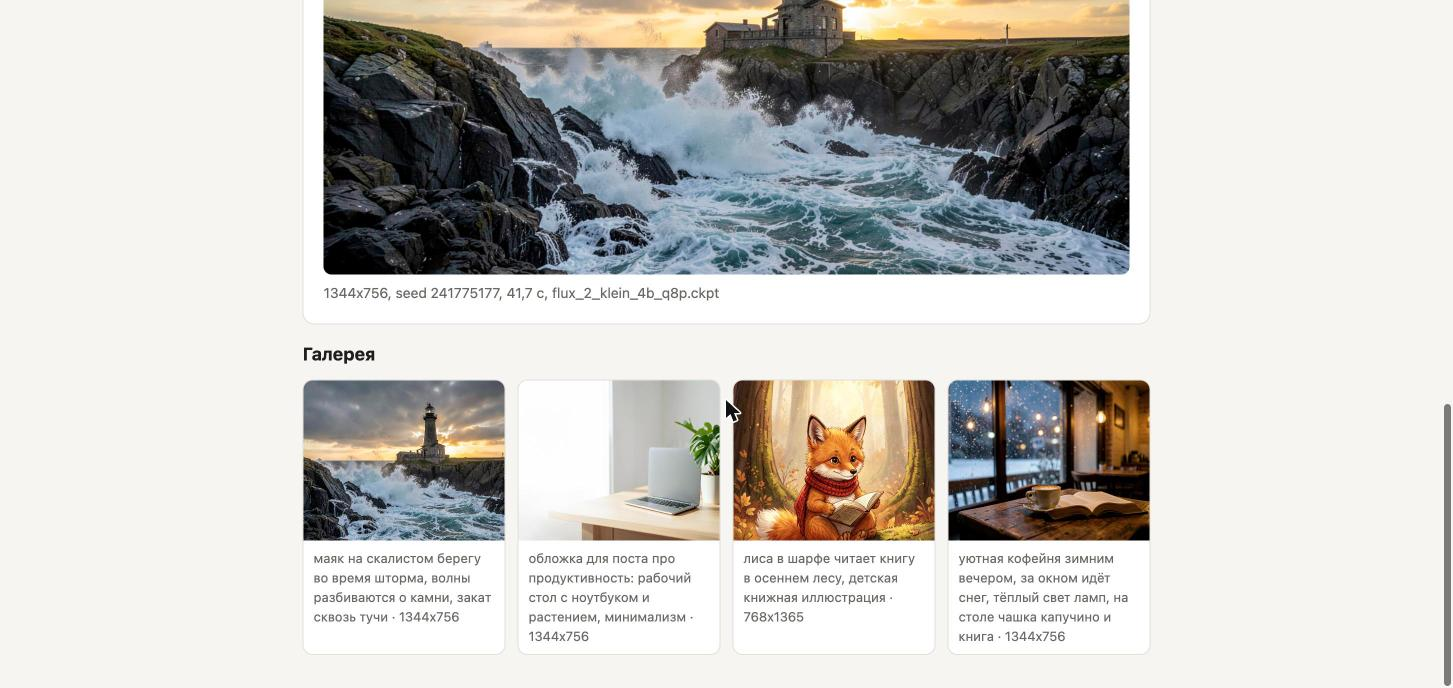
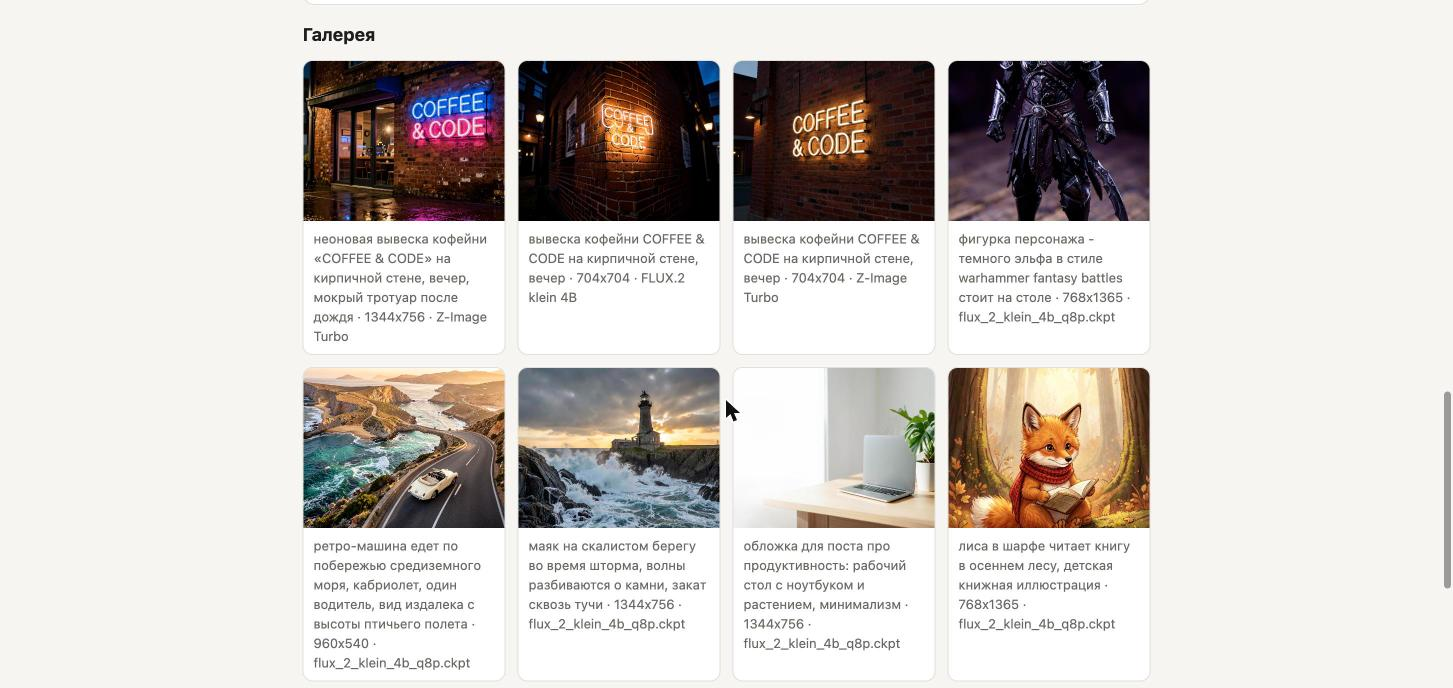
Выбор модели генерации: Z-Image Turbo и FLUX.2 klein 4B

diff --git a/static/app.js b/static/app.js
@@ -54,7 +54,8 @@ async function generate() {
   const stop = startTimer("Draw Things рисует");
   try {
     const entry = await post("/api/generate", {
-      prompt, idea: $("idea").value.trim(), aspect: $("aspect").value, quality: $("quality").value,
+      prompt, idea: $("idea").value.trim(), model: $("model").value,
+      aspect: $("aspect").value, quality: $("quality").value,
     });
     $("result-image").src = `/outputs/${encodeURIComponent(entry.file)}`;
     $("result-image").alt = entry.idea || entry.prompt;
@@ -83,9 +84,20 @@ async function loadGallery() {
     img.alt = entry.idea || entry.prompt;
     img.loading = "lazy";
     const caption = document.createElement("span");
-    caption.textContent = `${entry.idea || "без идеи"} · ${entry.size}`;
+    caption.textContent = `${entry.idea || "без идеи"} · ${entry.size} · ${entry.model}`;
     link.append(img, caption);
     return link;
+  }));
+}
+
+// Fills the model select from the server so the list lives in one place, drawthings.MODELS.
+async function loadModels() {
+  const data = await (await fetch("/api/models")).json();
+  $("model").replaceChildren(...data.models.map((model) => {
+    const steps = `${model.steps} ${model.steps < 5 ? "шага" : "шагов"}`;
+    const option = new Option(`${model.title}, ${steps}`, model.id);
+    option.selected = model.id === data.default;
+    return option;
   }));
 }
 
@@ -116,7 +128,7 @@ async function checkServices() {
     hints.push("Запустите приложение Ollama.");
   }
   if (status.drawthings_model) {
-    showService("drawthings-status", true, `Draw Things: ${status.drawthings_model}`);
+    showService("drawthings-status", true, "Draw Things: API включён");
   } else {
     showService("drawthings-status", false, "Draw Things: API выключен");
     hints.push("Откройте Draw Things и включите API-сервер: настройки → API Server, HTTP, порт 7860.");
@@ -127,6 +139,7 @@ async function checkServices() {
 
 $("write-prompt").addEventListener("click", writePrompt);
 $("generate").addEventListener("click", generate);
+loadModels();
 loadGallery();
 checkServices();
 setInterval(checkServices, 10000);

diff --git a/static/index.html b/static/index.html
@@ -37,6 +37,9 @@
       <h2><span class="step">2</span> Промпт и картинка</h2>
       <textarea id="prompt" rows="6" placeholder="Здесь появится промпт на английском. Его можно поправить перед генерацией."></textarea>
       <div class="row">
+        <label>Модель
+          <select id="model"></select>
+        </label>
         <label>Формат
           <select id="aspect">
             <option value="1:1">Квадрат 1:1</option>

diff --git a/drawthings.py b/drawthings.py
@@ -15,6 +15,13 @@ ASPECTS = {"1:1": (1, 1), "16:9": (16, 9), "9:16": (9, 16), "4:3": (4, 3), "3:4"
 # Megapixels for each quality level; "fullhd" is set by the short side instead.
 QUALITY_MEGAPIXELS = {"draft": 0.5, "standard": 1.0}
 
+# Models the studio offers. Both are distilled: few steps and CFG 1; other settings would spoil the image.
+MODELS = {
+    "z-image": {"title": "Z-Image Turbo", "file": "z_image_turbo_1.0_i8x.ckpt", "steps": 8, "guidance": 1.0},
+    "klein": {"title": "FLUX.2 klein 4B", "file": "flux_2_klein_4b_q8p.ckpt", "steps": 4, "guidance": 1.0},
+}
+DEFAULT_MODEL = "z-image"
+
 
 class DrawThingsError(Exception):
     pass
@@ -52,10 +59,6 @@ def _request(path, body=None, timeout=900):
         ) from error
 
 
-def current_model():
-    return _request("/", timeout=5).get("model")
-
-
 def status():
     """Selected model name, or None when Draw Things or its API server is off."""
     try:
@@ -64,18 +67,22 @@ def status():
         return None
 
 
-def generate(prompt, aspect, quality, out_path, seed=None):
+def generate(prompt, aspect, quality, out_path, model=DEFAULT_MODEL, seed=None):
     """Generates an image into out_path (PNG). Returns the settings actually used."""
     width, height = target_size(aspect, quality)
-    body = {"prompt": prompt, "negative_prompt": "", "width": _round_up(width), "height": _round_up(height)}
+    settings = MODELS[model]
+    body = {
+        "prompt": prompt, "negative_prompt": "", "width": _round_up(width), "height": _round_up(height),
+        "model": settings["file"], "steps": settings["steps"], "guidance_scale": settings["guidance"],
+    }
     if seed is not None:
         body["seed"] = seed
     result = _request("/sdapi/v1/txt2img", body)
     images = result.get("images") or []
     if not images:
-        raise DrawThingsError("Draw Things не вернул картинку. Проверьте, что в приложении выбрана модель.")
+        raise DrawThingsError(f"Draw Things не вернул картинку. Проверьте, что в приложении скачана модель {settings['title']}.")
     out_path.write_bytes(base64.b64decode(images[0]))
     if (body["width"], body["height"]) != (width, height):
         # sips ships with macOS (Draw Things is macOS-only anyway): crop to the exact size around the centre.
         subprocess.run(["sips", "-c", str(height), str(width), str(out_path)], check=True, capture_output=True)
-    return {"width": width, "height": height, "seed": seed}
+    return {"width": width, "height": height, "seed": seed, "model": settings["title"], "steps": settings["steps"]}

diff --git a/app.py b/app.py
@@ -58,6 +58,11 @@ class StudioHandler(SimpleHTTPRequestHandler):
                 "ollama": prompt_writer.status(), "ollama_model": prompt_writer.OLLAMA_MODEL,
                 "drawthings_model": drawthings.status(),
             })
+        if self.path == "/api/models":
+            return self.send_json(200, {
+                "default": drawthings.DEFAULT_MODEL,
+                "models": [{"id": key, "title": m["title"], "steps": m["steps"]} for key, m in drawthings.MODELS.items()],
+            })
         if self.path.startswith("/outputs/"):
             path = OUTPUT_DIR / Path(unquote(self.path[len("/outputs/"):])).name
             if path.suffix == ".png" and path.exists():
@@ -90,8 +95,11 @@ class StudioHandler(SimpleHTTPRequestHandler):
     def handle_generate(self, body):
         prompt, idea = (body.get("prompt") or "").strip(), (body.get("idea") or "").strip()
         aspect, quality = body.get("aspect", "1:1"), body.get("quality", "standard")
+        model = body.get("model", drawthings.DEFAULT_MODEL)
         if not prompt or aspect not in drawthings.ASPECTS or quality not in ("draft", "standard", "fullhd"):
             return self.send_json(400, {"error": "Нужны промпт, формат и качество"})
+        if model not in drawthings.MODELS:
+            return self.send_json(400, {"error": "Неизвестная модель"})
         if not generation_lock.acquire(blocking=False):
             return self.send_json(409, {"error": "Уже рисуется другая картинка, дождитесь её"})
         try:
@@ -99,10 +107,10 @@ class StudioHandler(SimpleHTTPRequestHandler):
             name = file_name(prompt)
             seed = body.get("seed") or random.randint(1, 2**31 - 1)
             started = time.time()
-            used = drawthings.generate(prompt, aspect, quality, OUTPUT_DIR / name, seed=seed)
+            used = drawthings.generate(prompt, aspect, quality, OUTPUT_DIR / name, model=model, seed=seed)
             entry = {
                 "file": name, "idea": idea, "prompt": prompt, "aspect": aspect, "quality": quality,
-                "size": f"{used['width']}x{used['height']}", "seed": seed, "model": drawthings.current_model(),
+                "size": f"{used['width']}x{used['height']}", "seed": seed, "model": used["model"], "steps": used["steps"],
                 "seconds": round(time.time() - started, 1), "created": datetime.now().isoformat(timespec="seconds"),
             }
             save_to_gallery(entry)

diff --git a/README.md b/README.md
@@ -1,6 +1,6 @@
 # Local Image Studio
 
-Локальная студия картинок: пишете идею по-русски, локальная модель Gemma превращает её в подробный английский промпт, Draw Things рисует картинку нужного формата. Всё работает на вашем Mac — без подписок, облачных сервисов и знания промпт-инжиниринга.
+Локальная студия картинок: пишете идею по-русски, локальная модель Gemma превращает её в подробный английский промпт, Draw Things рисует картинку нужного формата одной из двух моделей на выбор. Всё работает на вашем Mac — без подписок, облачных сервисов и знания промпт-инжиниринга.
 
 ![Идея и промпт](images/01-idea-and-prompt.jpg)
 
@@ -19,7 +19,7 @@
 
 1. **Вход:** идея на русском языке и стиль — фото, иллюстрация или обложка для поста.
 2. **Промпт:** Gemma 4 12B в Ollama пишет английский промпт на 50–90 слов и сохраняет все детали идеи. Промпт можно поправить вручную.
-3. **Генерация:** выбираете формат (1:1, 16:9, 9:16, 4:3, 3:4) и качество (черновик 0,5 Мп, обычное 1 Мп, Full HD). Студия сама подбирает размер, допустимый для модели, отправляет запрос в Draw Things и обрезает результат до точного размера.
+3. **Генерация:** выбираете модель — Z-Image Turbo (по умолчанию, чисто пишет текст и лучше даёт фотографии) или FLUX.2 klein 4B (быстрее, для черновиков), — формат (1:1, 16:9, 9:16, 4:3, 3:4) и качество (черновик 0,5 Мп, обычное 1 Мп, Full HD). Студия сама подбирает размер, допустимый для модели, отправляет запрос в Draw Things и обрезает результат до точного размера.
 4. **Выход:** PNG-файл в папке `outputs/` и запись в галерее: промпт, Seed, модель, размер, время генерации.
 
 ## Формат результата
@@ -40,6 +40,7 @@
 
 - веб-интерфейс на `localhost` в два шага: идея → промпт → картинка;
 - три стиля промпта: фото, иллюстрация, обложка для поста;
+- две модели генерации на выбор, у каждой свои шаги и CFG — переключать модель в Draw Things не нужно;
 - пять форматов и три уровня качества, точный размер на выходе;
 - галерея с параметрами каждой генерации;
 - строка состояния: при открытии страницы и каждые 10 секунд студия проверяет, отвечают ли Ollama и Draw Things, и подсказывает, что включить;
@@ -48,7 +49,8 @@
 Дальше в планах:
 
 - пакетная генерация по списку тем из контент-плана;
-- выбор модели Draw Things из интерфейса и сравнение моделей на одном Seed;
+- сравнение моделей на одном Seed прямо в интерфейсе;
+- короткие видео (Draw Things умеет Wan 2.2 и LTX-2);
 - апскейлер для 4K;
 - фирменные стили с сохранёнными настройками.
 
@@ -56,11 +58,11 @@
 
 - **Python 3.9+**, только стандартная библиотека: `http.server`, `urllib`, `json` — ничего не нужно устанавливать через pip.
 - **Ollama** с моделью `gemma-4-12b-it` (GGUF Q4_K_M) — пишет промпты, API `POST /api/generate`.
-- **Draw Things** с моделью FLUX.2 klein 4B — генерирует картинки, HTTP API в формате Automatic1111 (`POST /sdapi/v1/txt2img`).
+- **Draw Things** с моделями Z-Image Turbo (8 шагов) и FLUX.2 klein 4B (4 шага) — генерирует картинки, HTTP API в формате Automatic1111 (`POST /sdapi/v1/txt2img`); модель, шаги и CFG студия передаёт в каждом запросе.
 - **sips** из macOS — обрезка до точного размера.
 - **HTML, CSS и JavaScript** без фреймворков — интерфейс со светлой и тёмной темой.
 
-Время на MacBook M3 Pro (36 ГБ): промпт — 6–11 с, картинка 1 Мп — около 40 с, Full HD — около 90 с.
+Время на MacBook M3 Pro (36 ГБ): промпт — 6–11 с; картинка 1 Мп — около 60 с в Z-Image Turbo и около 40 с в FLUX.2 klein 4B; Full HD в klein — около 90 с.
 
 ## Установка и запуск
 
@@ -70,32 +72,32 @@
    ```bash
    ollama pull hf.co/unsloth/gemma-4-12b-it-GGUF:Q4_K_M
    ```
-2. Установите [Draw Things](https://drawthings.ai), скачайте в нём модель (например, FLUX.2 klein 4B) и включите API-сервер: настройки → API Server → HTTP, порт 7860.
+2. Установите [Draw Things](https://drawthings.ai), скачайте в нём модели Z-Image Turbo и FLUX.2 klein 4B и включите API-сервер: настройки → API Server → HTTP, порт 7860. Хватит и одной модели — тогда выбирайте в студии только её.
 3. Склонируйте репозиторий и запустите студию:
    ```bash
    git clone https://github.com/alexandrsaturn-eng/local-image-studio.git
    cd local-image-studio
    python3 app.py
    ```
-4. Откройте http://127.0.0.1:8000. Под заголовком обе метки должны быть зелёными: «Ollama: Gemma готова» и «Draw Things: имя модели». Если метка красная, рядом будет подсказка, что включить.
+4. Откройте http://127.0.0.1:8000. Под заголовком обе метки должны быть зелёными: «Ollama: Gemma готова» и «Draw Things: API включён». Если метка красная, рядом будет подсказка, что включить.
 
 Draw Things не всегда сам включает API-сервер после перезапуска. Если метка Draw Things красная, проверьте настройку API Server в приложении.
 
-Другую модель Ollama или другие адреса можно указать в начале файлов `prompt_writer.py` и `drawthings.py`.
+Другую модель Ollama или другие адреса можно указать в начале файлов `prompt_writer.py` и `drawthings.py`. Модели генерации перечислены в `MODELS` в `drawthings.py`: там же их файлы, шаги и CFG.
 
 ## Как пользоваться
 
 1. Опишите идею по-русски, выберите стиль и нажмите **«Написать промпт»**.
 2. Проверьте промпт, при желании поправьте его.
-3. Выберите формат и качество, нажмите **«Нарисовать»**. Таймер покажет, сколько идёт генерация.
+3. Выберите модель, формат и качество, нажмите **«Нарисовать»**. Таймер покажет, сколько идёт генерация.
 4. Картинка появится на странице и в галерее, файл — в папке `outputs/`.
 
 ## Структура проекта
 
 ```
-app.py              веб-сервер и API: /api/prompt, /api/generate, /api/gallery, /api/status
+app.py              веб-сервер и API: /api/prompt, /api/generate, /api/models, /api/gallery, /api/status
 prompt_writer.py    идея → английский промпт через Ollama
-drawthings.py       размеры, генерация в Draw Things, обрезка
+drawthings.py       модели, размеры, генерация в Draw Things, обрезка
 static/             интерфейс: index.html, style.css, app.js
 images/             скриншоты для README
 outputs/            сгенерированные картинки и gallery.json (не в git)

diff --git a/.claude/skills/local-image-studio/SKILL.md b/.claude/skills/local-image-studio/SKILL.md
@@ -11,9 +11,9 @@ A local web app for macOS: idea in Russian → English prompt from Gemma (Ollama
 
 | File | What it does |
 |---|---|
-| `app.py` | HTTP server on 127.0.0.1:8000. Routes: `GET /` (static UI), `POST /api/prompt` `{idea, style}` → `{prompt, seconds}`, `POST /api/generate` `{prompt, idea, aspect, quality, seed?}` → gallery entry, `GET /api/gallery`, `GET /api/status` → `{ollama: ok/no-model/off, ollama_model, drawthings_model or null}`, `GET /outputs/<file>.png`. One generation at a time (`generation_lock`, 409 when busy). Every response carries `Cache-Control: no-cache` so the browser picks up UI changes. |
+| `app.py` | HTTP server on 127.0.0.1:8000. Routes: `GET /` (static UI), `POST /api/prompt` `{idea, style}` → `{prompt, seconds}`, `POST /api/generate` `{prompt, idea, model, aspect, quality, seed?}` → gallery entry (with model title and steps), `GET /api/models` → `{default, models: [{id, title, steps}]}`, `GET /api/gallery`, `GET /api/status` → `{ollama: ok/no-model/off, ollama_model, drawthings_model or null}` (`drawthings_model` is only the app's own selection; it just tells that the API is on), `GET /outputs/<file>.png`. One generation at a time (`generation_lock`, 409 when busy). Every response carries `Cache-Control: no-cache` so the browser picks up UI changes. |
 | `prompt_writer.py` | Calls Ollama `POST /api/generate` with `OLLAMA_MODEL`. `STYLES` holds the three styles (photo, illustration, cover); `SYSTEM` is the instruction for the model. |
-| `drawthings.py` | `target_size(aspect, quality)` → exact size; `generate()` rounds sides up to multiples of 64, calls `POST /sdapi/v1/txt2img`, crops with `sips` to the exact size. `ASPECTS` and `QUALITY_MEGAPIXELS` define the options; Full HD = short side 1080. |
+| `drawthings.py` | `MODELS` — the models the studio offers: id → title, `.ckpt` file, steps, CFG (`z-image` = Z-Image Turbo, 8 steps, default; `klein` = FLUX.2 klein 4B, 4 steps; both CFG 1). `generate()` sends `model`, `steps`, `guidance_scale` with every request, so the selection in the Draw Things app does not matter. `target_size(aspect, quality)` → exact size; `generate()` rounds sides up to multiples of 64, calls `POST /sdapi/v1/txt2img`, crops with `sips` to the exact size. `ASPECTS` and `QUALITY_MEGAPIXELS` define the options; Full HD = short side 1080. |
 | `static/` | `index.html`, `style.css` (light and dark theme via CSS variables), `app.js` (two steps, timer, gallery). UI text is in Russian. |
 | `outputs/` | Generated PNGs and `gallery.json`. Ignored by git. |
 | `images/` | Screenshots used in README. |
@@ -38,7 +38,7 @@ A local web app for macOS: idea in Russian → English prompt from Gemma (Ollama
    curl -s -X POST http://127.0.0.1:8000/api/prompt -d '{"idea":"","style":"photo"}'   # expect a 400 error message
    curl -s -X POST http://127.0.0.1:8000/api/prompt -d '{"idea":"кот на подоконнике","style":"photo"}'
    ```
-   A real generation takes about 40 s at 1 MP and 90 s at Full HD on an M3 Pro; use quality `draft` for quick checks.
+   A real generation at 1 MP takes about 60 s with Z-Image Turbo and 40 s with klein on an M3 Pro (Full HD with klein about 90 s); use quality `draft` and `"model": "klein"` for quick checks.
 4. For UI changes, open the page in a browser and go through both steps; check the light and dark theme. A page opened before the no-cache header existed may need one hard reload (Cmd+Shift+R).
 5. To see the red status and error messages without stopping anything, run a second copy on another port with unreachable addresses:
    ```bash
@@ -51,6 +51,7 @@ A local web app for macOS: idea in Russian → English prompt from Gemma (Ollama
 - Keep the standard-library-only rule: no Flask, no requests, no Pillow. Cropping uses `sips`, which ships with macOS.
 - Keep Python 3.9 compatible syntax (the macOS system Python): no `match`, no `X | Y` type unions.
 - A new format: add it to `ASPECTS` in `drawthings.py` and to the `aspect` select in `static/index.html`.
+- A new model: download it in Draw Things, find its file in `~/Library/Containers/com.liuliu.draw-things/Data/Documents/Models`, add it to `MODELS` with the steps and CFG the model card recommends. The UI select is filled from `/api/models`, no HTML change needed. Gallery entries made before 2026-10-26 store the `.ckpt` file name in `model`, newer ones the title.
 - A new style: add it to `STYLES` in `prompt_writer.py` and to the `style` select.
 - Another Ollama model or address: `OLLAMA_MODEL` / `OLLAMA_URL` in `prompt_writer.py`; Draw Things address: `DRAW_THINGS_URL` in `drawthings.py`.
 - User-facing messages are in Russian; code, comments and identifiers are in English.
